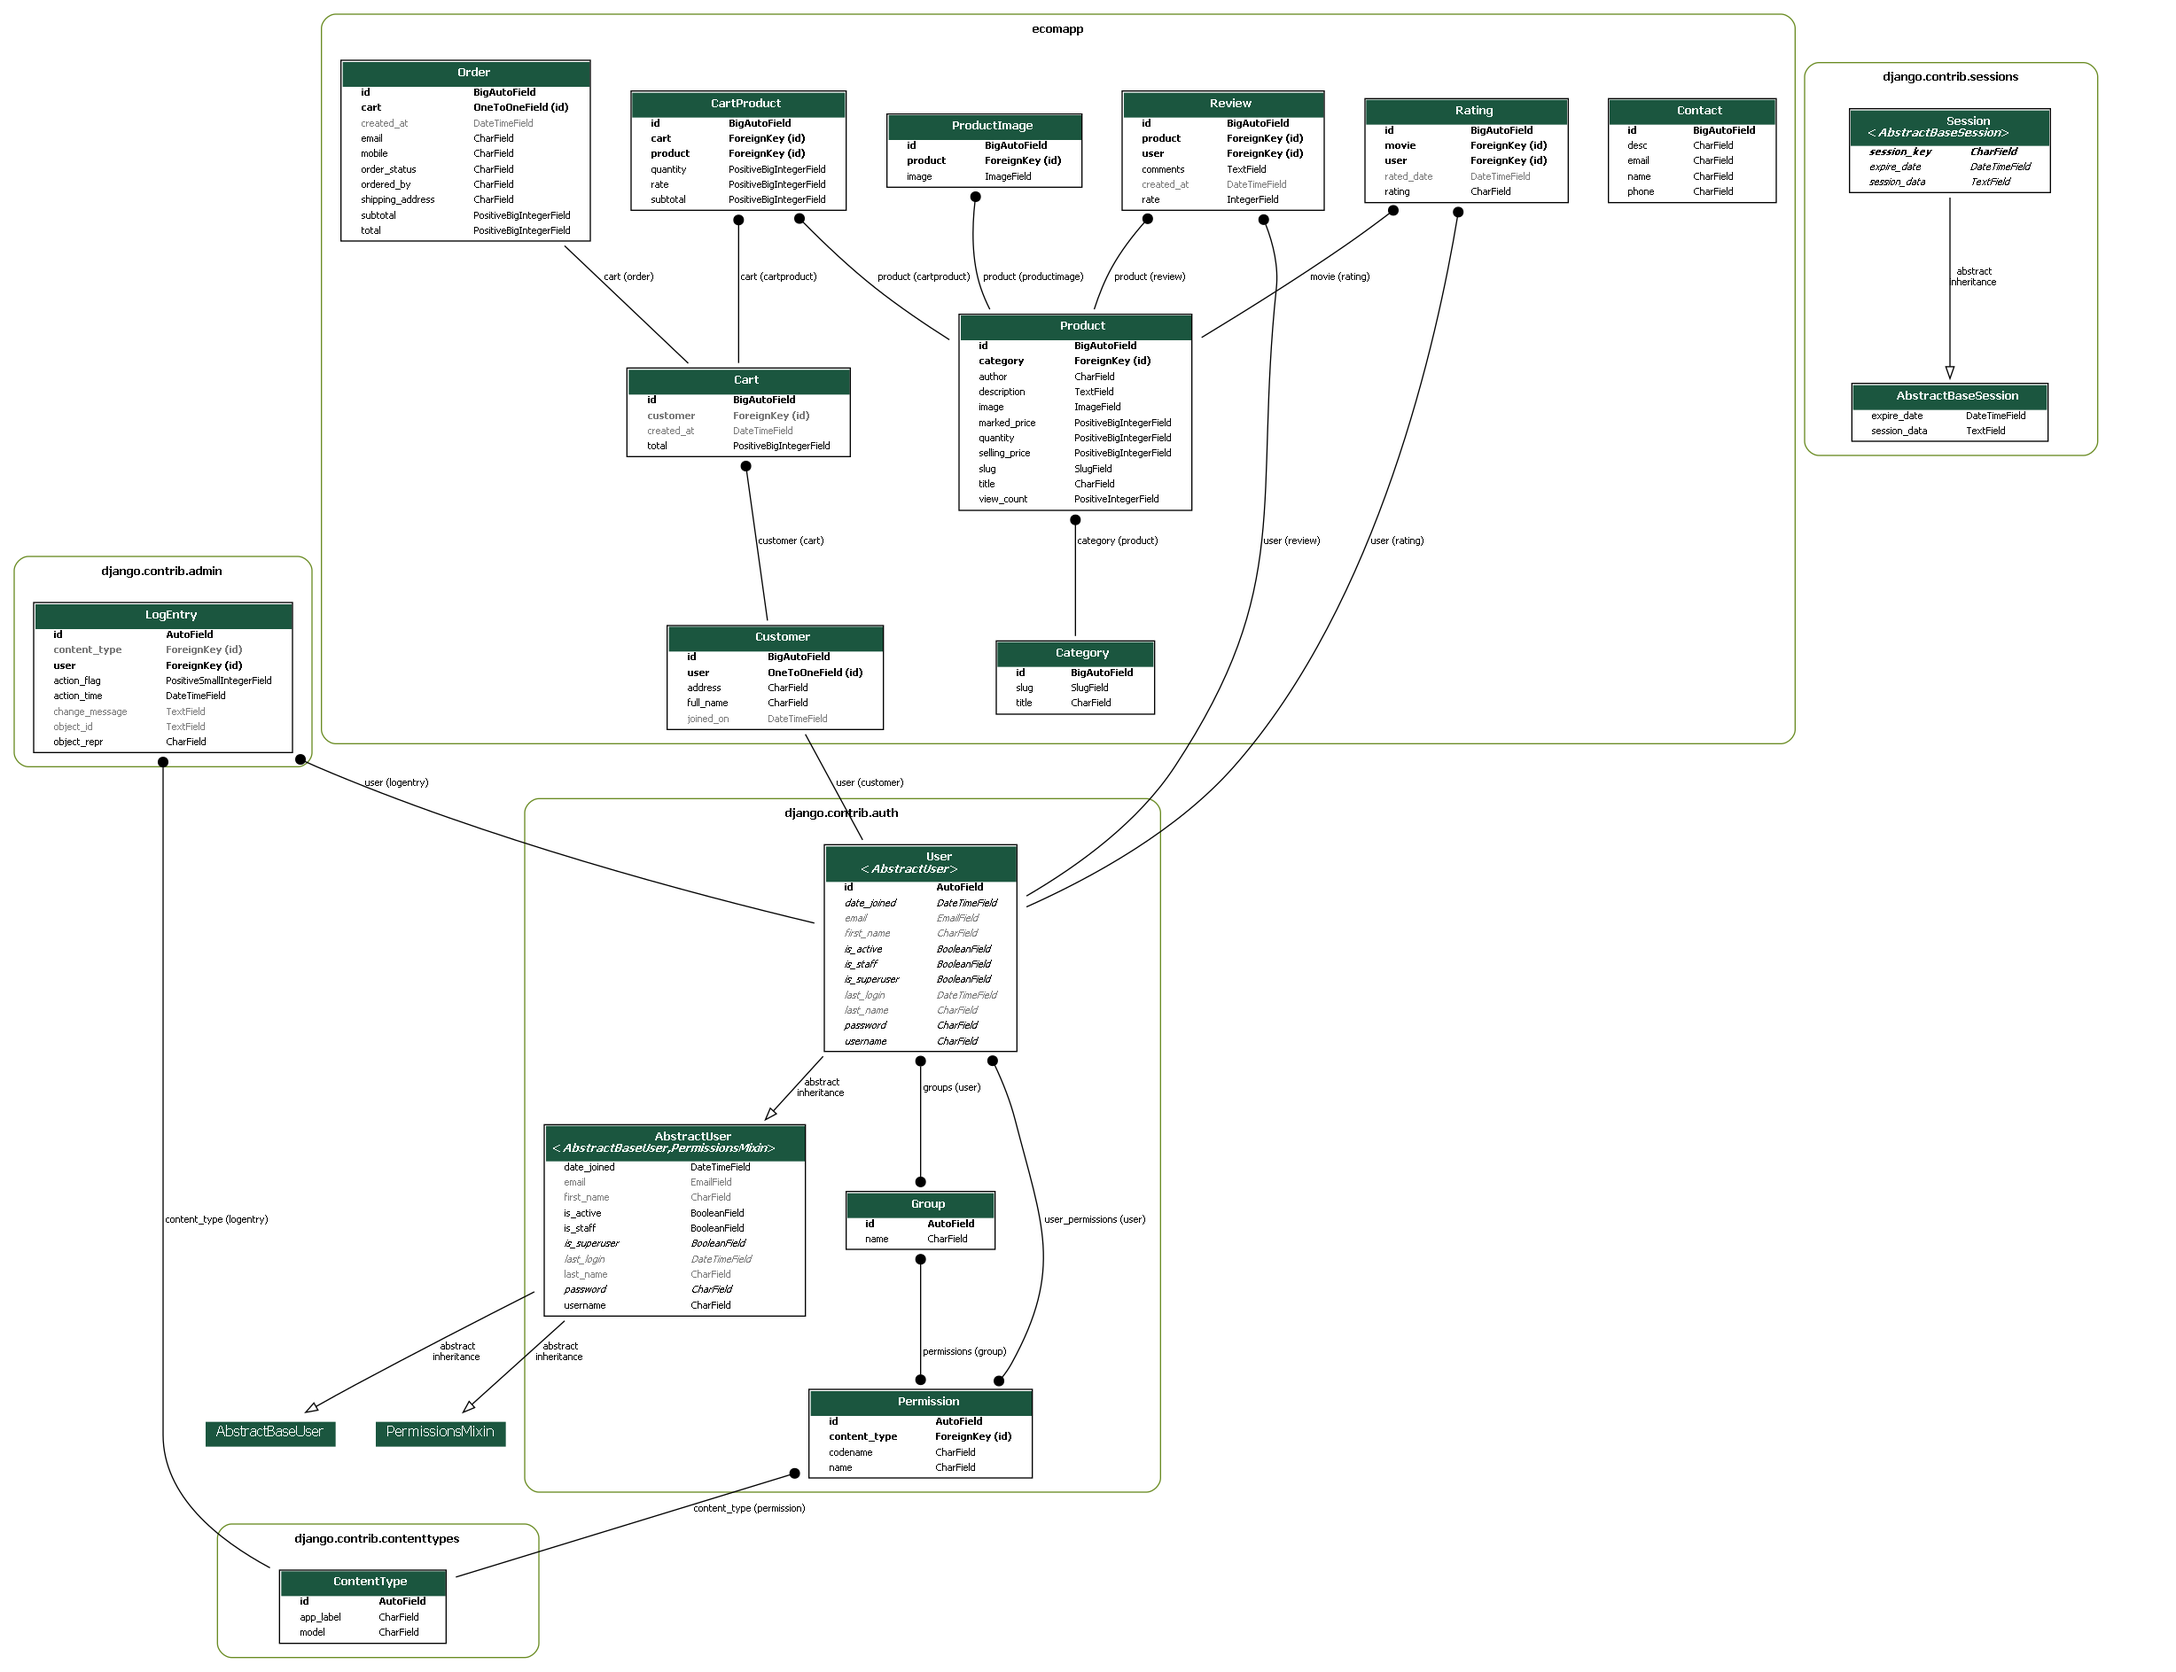
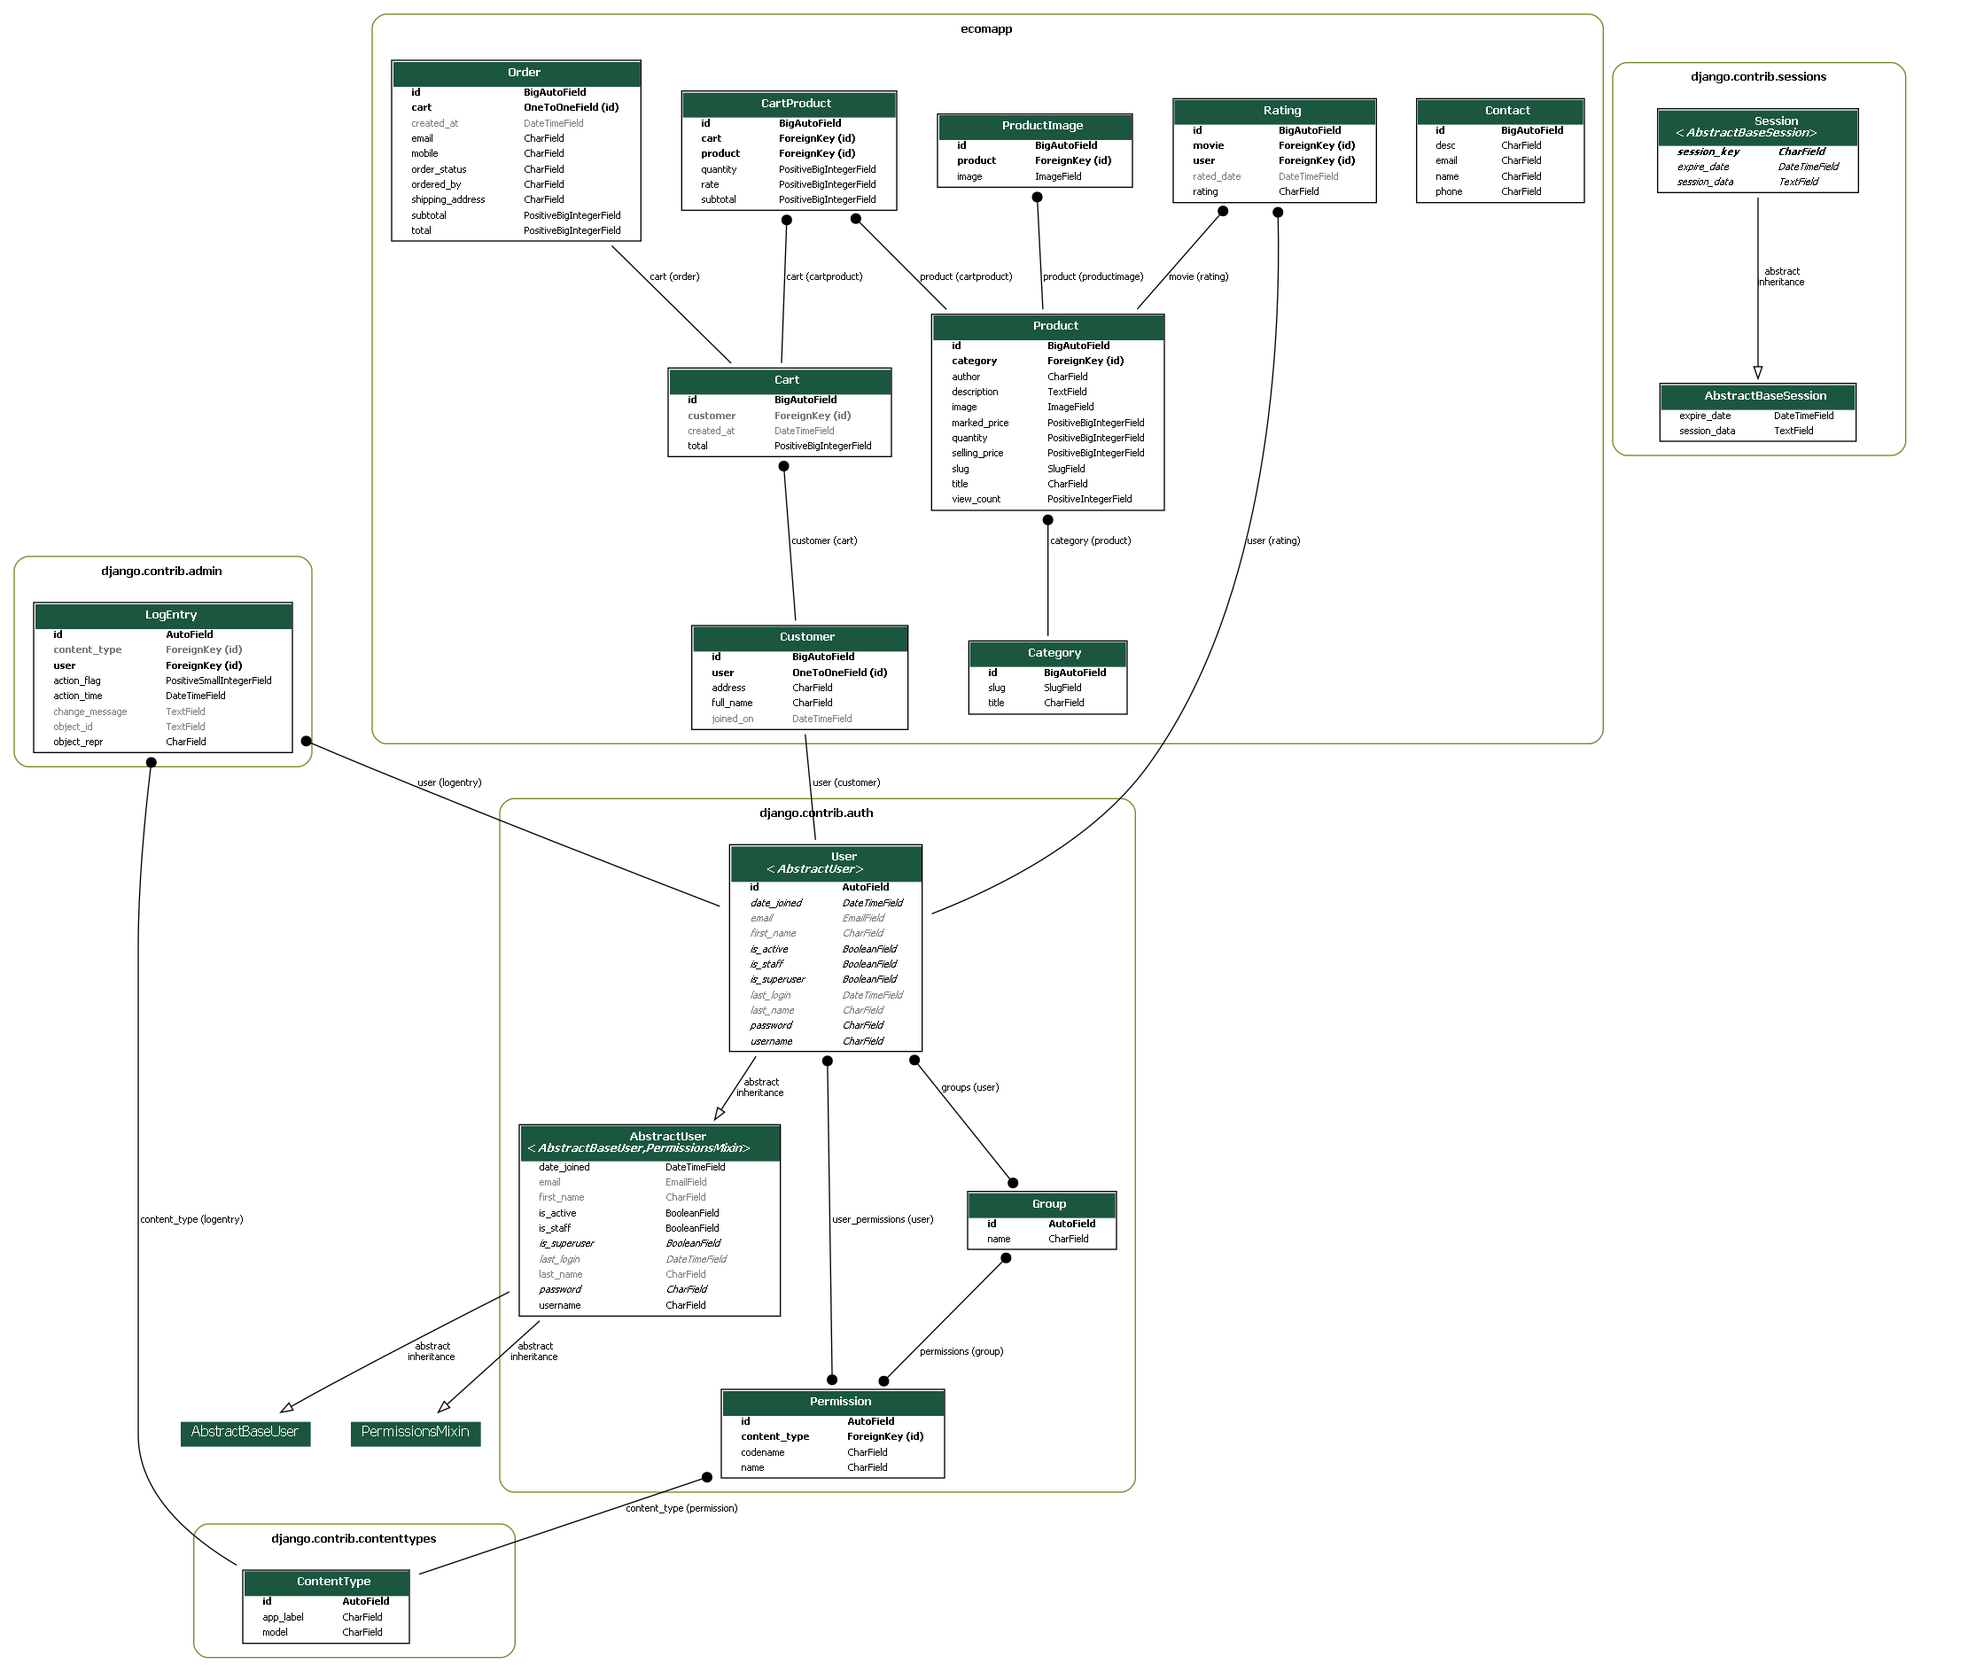
more update in erd

diff --git a/ecomapp/models.py b/ecomapp/models.py
@@ -144,12 +144,4 @@ class Rating(models.Model):
     rating=models.CharField(max_length=70)
     rated_date=models.DateTimeField(auto_now_add=True)
 
-class Review(models.Model):
-    user=models.ForeignKey(User,models.CASCADE)
-    product=models.ForeignKey(Product,models.CASCADE)
-    comments=models.TextField(max_length=200)
-    rate=models.IntegerField(default=0)
-    created_at=models.DateTimeField(auto_now_add=True)
 
-    def __str__(self):
-        return str(self.id)

diff --git a/ecomapp/admin.py b/ecomapp/admin.py
@@ -2,7 +2,7 @@ from django.contrib import admin
 
 # Register your models here.
 from .models import *
-admin.site.register([Contact,ProductImage,Customer,Category,Product,Cart,CartProduct,Order,Review])
+admin.site.register([Contact,ProductImage,Customer,Category,Product,Cart,CartProduct,Order])
 @admin.register(Rating)
 class ratingAdmin(admin.ModelAdmin):
     list_display=('user','movie','rating','rated_date')

diff --git a/ecomapp/migrations/0020_delete_review.py b/ecomapp/migrations/0020_delete_review.py
@@ -1,0 +1,16 @@
+# Generated by Django 4.0.1 on 2022-06-26 18:07
+
+from django.db import migrations
+
+
+class Migration(migrations.Migration):
+
+    dependencies = [
+        ('ecomapp', '0019_delete_productupload'),
+    ]
+
+    operations = [
+        migrations.DeleteModel(
+            name='Review',
+        ),
+    ]
